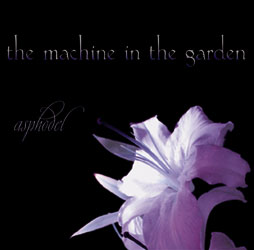
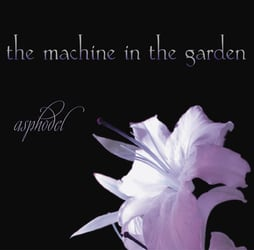
images cover images

diff --git a/asphodel.php b/asphodel.php
@@ -4,11 +4,11 @@
 	'og:upc'=>'685879998629',
 	'og:url'=>'https://www.tmitg.com/asphodel.php',
 	'og:description'=>'the Machine in the Garden \'Asphodel\' is the band\'s fifth studio album.',
-	'og:image'=>'https://www.tmitg.com/albums/asphodel700.jpg',
+	'og:image'=>'https://www.tmitg.com/albums/asphodelOG.jpg',
 	'og:image:alt'=>'Album cover artwork for the Machine in the Garden Asphodel',
 	'og:image:type'=>'image/jpeg',
-	'og:image:width'=>'700',
-	'og:image:height'=>'700',
+	'og:image:width'=>'1200',
+	'og:image:height'=>'1180',
 ); ?>
 <!DOCTYPE html>
 <html	lang="en" 
@@ -58,7 +58,12 @@
 
 <!-- this is the display table for the CD and info -->
 <section id="discog_albuminfo" tabindex="-1">
-    <div><img src="albums/asphodel.jpg" width="254" height="250" alt="Asphodel (2002) album cover — the Machine in the Garden" class="albumimg" itemprop="image" /></div>
+    <div>
+		<picture>
+			<source srcset="albums/asphodel500.jpg 2x">
+    			<img src="albums/asphodel.jpg" width="254" height="250" alt="Asphodel (2002) album cover — the Machine in the Garden" class="albumimg" itemprop="image" />
+		</picture>
+    </div>
 	<h1 itemprop="name">Asphodel</h1>
 	<p itemprop="abstract"><em>the Machine in the Garden explore songs of love and desire, sorrow and despair, always searching for the quiet beauty underneath the darkness. Harmonious female vocals sit atop resonant guitar riffs and layered electronics.</em></p>
 
